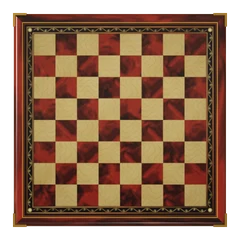
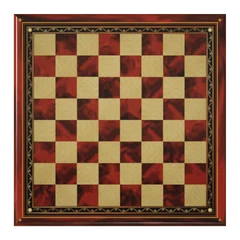
ブール象嵌の盤：四隅の金具を枠の平らな面に載る小さな菱形の金具に（浮いて見えていたため）
Claude-Session: https://claude.ai/code/session_01EiWRAXXs2Dq9W8exsfF5qf

diff --git a/atlas/lazy.js b/atlas/lazy.js
@@ -5,7 +5,7 @@
      AtlasLazy.has3D(id) / hasPlay(id) / hasRules(id) — known before loading; AtlasLazy.loaded(id) */
 (function () {
 'use strict';
-const G = {"reversi": ["games/reversi.js?v=53", "rules/reversi.js?v=14"], "shogi": ["models/shogi.js?v=101", "games/shogi-play.js?v=43", "games/shogi.js?v=16", "rules/shogi.js?v=21"], "chess": ["models/chess.js?v=16", "games/chess.js?v=18", "rules/chess.js?v=7"], "backgammon": ["models/backgammon.js?v=121", "games/backgammon.js?v=23", "rules/backgammon.js?v=11"], "gomoku": ["models/goban.js?v=15", "games/gomoku.js?v=15", "rules/gomoku.js?v=9"], "go": ["models/goban.js?v=15", "games/go.js?v=9", "rules/go.js?v=7"], "hex": ["models/goban.js?v=15", "models/hex.js?v=2", "games/hex.js?v=6", "rules/hex.js?v=6"], "tafl": ["games/tafl.js?v=15", "rules/tafl.js?v=7"], "xiangqi": ["models/xiangqi.js?v=4", "games/xiangqi.js?v=14", "rules/xiangqi.js?v=6"], "janggi": ["models/xiangqi.js?v=4", "models/janggi.js?v=3", "games/janggi.js?v=6", "rules/janggi.js?v=2"], "checkers": ["models/checkers.js?v=20", "games/checkers.js?v=11", "rules/checkers.js?v=6"], "ugolki": ["models/checkers.js?v=20", "models/ugolki.js?v=4", "games/ugolki.js?v=11", "rules/ugolki.js?v=8"], "morris": ["models/morris.js?v=7", "games/morris-pieces.js?v=2", "games/morris.js?v=8", "rules/morris.js?v=6"], "connect4": ["models/connect4.js?v=5", "games/connect4-tiles.js?v=1", "games/connect4.js?v=5", "rules/connect4.js?v=3"], "mancala": ["models/mancala.js?v=5", "games/mancala.js?v=10", "rules/mancala.js?v=4"], "dots": ["models/dots.js?v=4", "games/dots.js?v=9", "rules/dots.js?v=3"], "ur": ["models/ur-dice.js?v=2", "models/ur.js?v=5", "games/ur-kit.js?v=15", "games/ur.js?v=11", "rules/ur.js?v=16"], "fanorona": ["models/fanorona.js?v=4", "games/fanorona.js?v=6", "rules/fanorona.js?v=8"], "konane": ["models/konane.js?v=7", "games/konane.js?v=13", "rules/konane.js?v=5"], "amazons": ["models/amazons.js?v=7", "games/amazons.js?v=11", "rules/amazons.js?v=6"], "senet": ["models/ur-dice.js?v=2", "models/senet.js?v=10", "games/senet-kit.js?v=5", "games/senet.js?v=16", "rules/senet.js?v=8"], "agon": ["models/agon.js?v=4", "games/agon.js?v=12", "rules/agon.js?v=5"], "alquerque": ["models/alquerque.js?v=3", "rules/alquerque.js?v=6"], "ludo": ["../ludo/engine.js?v=3", "../ludo/house.js?v=7", "../ludo/board2d.js?v=7", "../ludo/board-art.js?v=3", "models/ludo.js?v=10", "games/ludo.js?v=28", "rules/ludo.js?v=3"], "carrom": ["../carrom/engine.js?v=7", "models/carrom.js?v=18", "games/carrom.js?v=38", "rules/carrom.js?v=8"], "crokinole": ["../carrom/engine.js?v=7", "games/carrom.js?v=38", "../crokinole/engine.js?v=4", "models/crokinole.js?v=13", "games/crokinole.js?v=15", "rules/crokinole.js?v=4"], "hockey": ["../hockey/engine.js?v=15", "models/hockey.js?v=8", "games/hockey.js?v=30", "rules/hockey.js?v=7"], "shanghai": ["games/shanghai-core.js?v=2", "games/shanghai-zodiac.js?v=6", "games/shanghai-i18n.js?v=12", "models/shanghai.js?v=18", "games/shanghai.js?v=28", "rules/shanghai-i18n.js?v=1", "rules/shanghai.js?v=1"], "peg": ["../peg/engine.js?v=2", "../peg/i18n.js?v=11", "models/peg.js?v=22", "games/peg.js?v=16", "rules/peg.js?v=4"]};
+const G = {"reversi": ["games/reversi.js?v=53", "rules/reversi.js?v=14"], "shogi": ["models/shogi.js?v=101", "games/shogi-play.js?v=43", "games/shogi.js?v=16", "rules/shogi.js?v=21"], "chess": ["models/chess.js?v=16", "games/chess.js?v=18", "rules/chess.js?v=7"], "backgammon": ["models/backgammon.js?v=121", "games/backgammon.js?v=23", "rules/backgammon.js?v=11"], "gomoku": ["models/goban.js?v=15", "games/gomoku.js?v=15", "rules/gomoku.js?v=9"], "go": ["models/goban.js?v=15", "games/go.js?v=9", "rules/go.js?v=7"], "hex": ["models/goban.js?v=15", "models/hex.js?v=2", "games/hex.js?v=6", "rules/hex.js?v=6"], "tafl": ["games/tafl.js?v=15", "rules/tafl.js?v=7"], "xiangqi": ["models/xiangqi.js?v=4", "games/xiangqi.js?v=14", "rules/xiangqi.js?v=6"], "janggi": ["models/xiangqi.js?v=4", "models/janggi.js?v=3", "games/janggi.js?v=6", "rules/janggi.js?v=2"], "checkers": ["models/checkers.js?v=21", "games/checkers.js?v=11", "rules/checkers.js?v=6"], "ugolki": ["models/checkers.js?v=21", "models/ugolki.js?v=4", "games/ugolki.js?v=11", "rules/ugolki.js?v=8"], "morris": ["models/morris.js?v=7", "games/morris-pieces.js?v=2", "games/morris.js?v=8", "rules/morris.js?v=6"], "connect4": ["models/connect4.js?v=5", "games/connect4-tiles.js?v=1", "games/connect4.js?v=5", "rules/connect4.js?v=3"], "mancala": ["models/mancala.js?v=5", "games/mancala.js?v=10", "rules/mancala.js?v=4"], "dots": ["models/dots.js?v=4", "games/dots.js?v=9", "rules/dots.js?v=3"], "ur": ["models/ur-dice.js?v=2", "models/ur.js?v=5", "games/ur-kit.js?v=15", "games/ur.js?v=11", "rules/ur.js?v=16"], "fanorona": ["models/fanorona.js?v=4", "games/fanorona.js?v=6", "rules/fanorona.js?v=8"], "konane": ["models/konane.js?v=7", "games/konane.js?v=13", "rules/konane.js?v=5"], "amazons": ["models/amazons.js?v=7", "games/amazons.js?v=11", "rules/amazons.js?v=6"], "senet": ["models/ur-dice.js?v=2", "models/senet.js?v=10", "games/senet-kit.js?v=5", "games/senet.js?v=16", "rules/senet.js?v=8"], "agon": ["models/agon.js?v=4", "games/agon.js?v=12", "rules/agon.js?v=5"], "alquerque": ["models/alquerque.js?v=3", "rules/alquerque.js?v=6"], "ludo": ["../ludo/engine.js?v=3", "../ludo/house.js?v=7", "../ludo/board2d.js?v=7", "../ludo/board-art.js?v=3", "models/ludo.js?v=10", "games/ludo.js?v=28", "rules/ludo.js?v=3"], "carrom": ["../carrom/engine.js?v=7", "models/carrom.js?v=18", "games/carrom.js?v=38", "rules/carrom.js?v=8"], "crokinole": ["../carrom/engine.js?v=7", "games/carrom.js?v=38", "../crokinole/engine.js?v=4", "models/crokinole.js?v=13", "games/crokinole.js?v=15", "rules/crokinole.js?v=4"], "hockey": ["../hockey/engine.js?v=15", "models/hockey.js?v=8", "games/hockey.js?v=30", "rules/hockey.js?v=7"], "shanghai": ["games/shanghai-core.js?v=2", "games/shanghai-zodiac.js?v=6", "games/shanghai-i18n.js?v=12", "models/shanghai.js?v=18", "games/shanghai.js?v=28", "rules/shanghai-i18n.js?v=1", "rules/shanghai.js?v=1"], "peg": ["../peg/engine.js?v=2", "../peg/i18n.js?v=11", "models/peg.js?v=22", "games/peg.js?v=16", "rules/peg.js?v=4"]};
 const F = {"reversi": {"t3": true, "play": true, "rules": true}, "shogi": {"t3": true, "play": true, "rules": true}, "chess": {"t3": true, "play": true, "rules": true}, "backgammon": {"t3": true, "play": true, "rules": true}, "gomoku": {"t3": true, "play": true, "rules": true}, "go": {"t3": true, "play": true, "rules": true}, "hex": {"t3": true, "play": true, "rules": true}, "tafl": {"t3": true, "play": true, "rules": true}, "xiangqi": {"t3": true, "play": true, "rules": true}, "janggi": {"t3": true, "play": true, "rules": true}, "checkers": {"t3": true, "play": true, "rules": true}, "ugolki": {"t3": true, "play": true, "rules": true}, "morris": {"t3": true, "play": true, "rules": true}, "connect4": {"t3": true, "play": true, "rules": true}, "mancala": {"t3": true, "play": true, "rules": true}, "dots": {"t3": true, "play": true, "rules": true}, "ur": {"t3": true, "play": true, "rules": true}, "fanorona": {"t3": true, "play": true, "rules": true}, "konane": {"t3": true, "play": true, "rules": true}, "amazons": {"t3": true, "play": true, "rules": true}, "senet": {"t3": true, "play": true, "rules": true}, "agon": {"t3": true, "play": true, "rules": true}, "alquerque": {"t3": true, "play": false, "rules": true}, "ludo": {"t3": true, "play": true, "rules": true}, "carrom": {"t3": true, "play": true, "rules": true}, "crokinole": {"t3": true, "play": true, "rules": true}, "hockey": {"t3": true, "play": true, "rules": true}, "peg": {"t3": true, "play": true, "rules": true}, "shanghai": {"t3": true, "play": true, "rules": true}};
 const done = new Set(), loading = new Map(), ok = new Set();
 function load(src) {

diff --git a/dots/index.html b/dots/index.html
@@ -2300,7 +2300,7 @@ document.querySelector('#rsResume').onclick = () => { document.querySelector('#r
   const f = document.createElement('link'); f.rel = 'stylesheet'; f.href = 'https://fonts.googleapis.com/css2?family=RocknRoll+One&family=Zen+Maru+Gothic:wght@500;700;900&family=Fredoka:wght@600;700&family=Kalam:wght@400;700&family=Zen+Kurenaido&family=Nanum+Pen+Script&family=Long+Cang&family=Aref+Ruqaa:wght@700&display=swap'; document.head.appendChild(f);   // (Kalam … Aref Ruqaa: the handwritten box initials and tally on the notebook page)
   const load = src => new Promise((res, rej) => { const s = document.createElement('script'); s.src = src; s.onload = res; s.onerror = rej; document.body.appendChild(s); });
   if (window.AtlasLoading) { AtlasLoading.show(); setTimeout(() => AtlasLoading.hide(), 12000); }   // safety net
-  (/[?&]three=128\b/.test(location.search) ? load('https://cdnjs.cloudflare.com/ajax/libs/three.js/r128/three.min.js') : load('../atlas/vendor/three-r186.min.js?v=1').then(() => load('../atlas/vendor/three-compat.js?v=15'))).then(() => load('../atlas/img/tex/baked.js?v=2')).then(() => load('../atlas/table3d.js?v=168')).then(() => load('../atlas/tables3d.js?v=120')).then(() => load('../atlas/skin/common.js?v=105')).then(() => load('../atlas/models/dots.js?v=3l14')).then(() => load('../atlas/skin/dots.js?v=7l14'))
+  (/[?&]three=128\b/.test(location.search) ? load('https://cdnjs.cloudflare.com/ajax/libs/three.js/r128/three.min.js') : load('../atlas/vendor/three-r186.min.js?v=1').then(() => load('../atlas/vendor/three-compat.js?v=15'))).then(() => load('../atlas/img/tex/baked.js?v=2')).then(() => load('../atlas/table3d.js?v=168')).then(() => load('../atlas/tables3d.js?v=121')).then(() => load('../atlas/skin/common.js?v=105')).then(() => load('../atlas/models/dots.js?v=3l14')).then(() => load('../atlas/skin/dots.js?v=7l14'))
     .catch(() => { document.documentElement.classList.remove('atlas-skin'); if (window.AtlasLoading) AtlasLoading.hide(); });
 })();
 </script>

diff --git a/ur/index.html b/ur/index.html
@@ -1029,7 +1029,7 @@ html:not([lang=ja]):not([lang=zh]):not([lang="zh-TW"]):not([lang=ko]) .result-bi
   const f = document.createElement('link'); f.rel = 'stylesheet'; f.href = 'https://fonts.googleapis.com/css2?family=RocknRoll+One&family=Zen+Maru+Gothic:wght@500;700;900&family=Fredoka:wght@600;700&display=swap'; document.head.appendChild(f);
   const load = src => new Promise((res, rej) => { const s = document.createElement('script'); s.src = src; s.onload = res; s.onerror = rej; document.body.appendChild(s); });
   if (window.AtlasLoading) { AtlasLoading.show(); setTimeout(() => AtlasLoading.hide(), 12000); }   // safety net
-  (/[?&]three=128\b/.test(location.search) ? load('https://cdnjs.cloudflare.com/ajax/libs/three.js/r128/three.min.js') : load('../atlas/vendor/three-r186.min.js?v=1').then(() => load('../atlas/vendor/three-compat.js?v=15'))).then(() => load('../atlas/img/tex/baked.js?v=2')).then(() => load('../atlas/table3d.js?v=168')).then(() => load('../atlas/tables3d.js?v=120')).then(() => load('../atlas/skin/common.js?v=105')).then(() => load('../atlas/models/ur-dice.js?v=2l14')).then(() => load('../atlas/models/ur.js?v=5l14')).then(() => load('../atlas/skin/ur.js?v=14l14'))
+  (/[?&]three=128\b/.test(location.search) ? load('https://cdnjs.cloudflare.com/ajax/libs/three.js/r128/three.min.js') : load('../atlas/vendor/three-r186.min.js?v=1').then(() => load('../atlas/vendor/three-compat.js?v=15'))).then(() => load('../atlas/img/tex/baked.js?v=2')).then(() => load('../atlas/table3d.js?v=168')).then(() => load('../atlas/tables3d.js?v=121')).then(() => load('../atlas/skin/common.js?v=105')).then(() => load('../atlas/models/ur-dice.js?v=2l14')).then(() => load('../atlas/models/ur.js?v=5l14')).then(() => load('../atlas/skin/ur.js?v=14l14'))
     .catch(() => { const u = new URL(location.href); u.searchParams.delete('skin'); location.replace(u.href); });   // (the 3D files are missing: the plain 2D page)
 })();
 </script>

diff --git a/connect4/index.html b/connect4/index.html
@@ -3391,7 +3391,7 @@ document.addEventListener('keydown', e => {
   const f = document.createElement('link'); f.rel = 'stylesheet'; f.href = 'https://fonts.googleapis.com/css2?family=RocknRoll+One&family=Zen+Maru+Gothic:wght@500;700;900&family=Fredoka:wght@600;700&display=swap'; document.head.appendChild(f);
   const load = src => new Promise((res, rej) => { const s = document.createElement('script'); s.src = src; s.onload = res; s.onerror = rej; document.body.appendChild(s); });
   if (window.AtlasLoading) { AtlasLoading.show(); setTimeout(() => AtlasLoading.hide(), 12000); }   // safety net
-  (/[?&]three=128\b/.test(location.search) ? load('https://cdnjs.cloudflare.com/ajax/libs/three.js/r128/three.min.js') : load('../atlas/vendor/three-r186.min.js?v=1').then(() => load('../atlas/vendor/three-compat.js?v=15'))).then(() => load('../atlas/img/tex/baked.js?v=2')).then(() => load('../atlas/table3d.js?v=168')).then(() => load('../atlas/tables3d.js?v=120')).then(() => load('../atlas/skin/common.js?v=105')).then(() => load('../atlas/models/connect4.js?v=5l14')).then(() => load('../atlas/games/connect4-tiles.js?v=1l14')).then(() => load('../atlas/skin/connect4.js?v=6l14-aim'))
+  (/[?&]three=128\b/.test(location.search) ? load('https://cdnjs.cloudflare.com/ajax/libs/three.js/r128/three.min.js') : load('../atlas/vendor/three-r186.min.js?v=1').then(() => load('../atlas/vendor/three-compat.js?v=15'))).then(() => load('../atlas/img/tex/baked.js?v=2')).then(() => load('../atlas/table3d.js?v=168')).then(() => load('../atlas/tables3d.js?v=121')).then(() => load('../atlas/skin/common.js?v=105')).then(() => load('../atlas/models/connect4.js?v=5l14')).then(() => load('../atlas/games/connect4-tiles.js?v=1l14')).then(() => load('../atlas/skin/connect4.js?v=6l14-aim'))
     .catch(() => { document.documentElement.classList.remove('atlas-skin'); if (window.AtlasLoading) AtlasLoading.hide(); });
 })();
 </script>

diff --git a/morris/index.html b/morris/index.html
@@ -3904,7 +3904,7 @@ window.addEventListener('resize', () => renderFx());
   const f = document.createElement('link'); f.rel = 'stylesheet'; f.href = 'https://fonts.googleapis.com/css2?family=RocknRoll+One&family=Zen+Maru+Gothic:wght@500;700;900&family=Fredoka:wght@600;700&display=swap'; document.head.appendChild(f);
   const load = src => new Promise((res, rej) => { const s = document.createElement('script'); s.src = src; s.onload = res; s.onerror = rej; document.body.appendChild(s); });
   if (window.AtlasLoading) { AtlasLoading.show(); setTimeout(() => AtlasLoading.hide(), 12000); }   // safety net
-  (/[?&]three=128\b/.test(location.search) ? load('https://cdnjs.cloudflare.com/ajax/libs/three.js/r128/three.min.js') : load('../atlas/vendor/three-r186.min.js?v=1').then(() => load('../atlas/vendor/three-compat.js?v=15'))).then(() => load('../atlas/img/tex/baked.js?v=2')).then(() => load('../atlas/table3d.js?v=168')).then(() => load('../atlas/tables3d.js?v=120')).then(() => load('../atlas/skin/common.js?v=105')).then(() => load('../atlas/models/morris.js?v=6l14')).then(() => load('../atlas/games/morris-pieces.js?v=2l14')).then(() => load('../atlas/skin/morris.js?v=6l15'))
+  (/[?&]three=128\b/.test(location.search) ? load('https://cdnjs.cloudflare.com/ajax/libs/three.js/r128/three.min.js') : load('../atlas/vendor/three-r186.min.js?v=1').then(() => load('../atlas/vendor/three-compat.js?v=15'))).then(() => load('../atlas/img/tex/baked.js?v=2')).then(() => load('../atlas/table3d.js?v=168')).then(() => load('../atlas/tables3d.js?v=121')).then(() => load('../atlas/skin/common.js?v=105')).then(() => load('../atlas/models/morris.js?v=6l14')).then(() => load('../atlas/games/morris-pieces.js?v=2l14')).then(() => load('../atlas/skin/morris.js?v=6l15'))
     .catch(() => { document.documentElement.classList.remove('atlas-skin'); if (window.AtlasLoading) AtlasLoading.hide(); });
 })();
 </script>

diff --git a/senet/index.html b/senet/index.html
@@ -1030,7 +1030,7 @@ html:not([lang=ja]):not([lang=zh]):not([lang=zh-TW]):not([lang=ko]) .result-big{
   const f = document.createElement('link'); f.rel = 'stylesheet'; f.href = 'https://fonts.googleapis.com/css2?family=RocknRoll+One&family=Zen+Maru+Gothic:wght@500;700;900&family=Fredoka:wght@600;700&display=swap'; document.head.appendChild(f);
   const load = src => new Promise((res, rej) => { const s = document.createElement('script'); s.src = src; s.onload = res; s.onerror = rej; document.body.appendChild(s); });
   if (window.AtlasLoading) { AtlasLoading.show(); setTimeout(() => AtlasLoading.hide(), 12000); }   // safety net
-  (/[?&]three=128\b/.test(location.search) ? load('https://cdnjs.cloudflare.com/ajax/libs/three.js/r128/three.min.js') : load('../atlas/vendor/three-r186.min.js?v=1').then(() => load('../atlas/vendor/three-compat.js?v=15'))).then(() => load('../atlas/img/tex/baked.js?v=2')).then(() => load('../atlas/table3d.js?v=168')).then(() => load('../atlas/tables3d.js?v=120')).then(() => load('../atlas/skin/common.js?v=105')).then(() => load('../atlas/models/senet.js?v=10l14')).then(() => load('../atlas/skin/senet.js?v=10l14'))
+  (/[?&]three=128\b/.test(location.search) ? load('https://cdnjs.cloudflare.com/ajax/libs/three.js/r128/three.min.js') : load('../atlas/vendor/three-r186.min.js?v=1').then(() => load('../atlas/vendor/three-compat.js?v=15'))).then(() => load('../atlas/img/tex/baked.js?v=2')).then(() => load('../atlas/table3d.js?v=168')).then(() => load('../atlas/tables3d.js?v=121')).then(() => load('../atlas/skin/common.js?v=105')).then(() => load('../atlas/models/senet.js?v=10l14')).then(() => load('../atlas/skin/senet.js?v=10l14'))
     .catch(() => { const u = new URL(location.href); u.searchParams.delete('skin'); location.replace(u.href); });   // (the 3D files are missing: the plain 2D page)
 })();
 </script>

diff --git a/fanorona/index.html b/fanorona/index.html
@@ -1687,7 +1687,7 @@ body.lt-on .reserve .onb.on{border-color:var(--accent);box-shadow:0 0 0 1px var(
   const f = document.createElement('link'); f.rel = 'stylesheet'; f.href = 'https://fonts.googleapis.com/css2?family=RocknRoll+One&family=Zen+Maru+Gothic:wght@500;700;900&family=Fredoka:wght@600;700&display=swap'; document.head.appendChild(f);
   const load = src => new Promise((res, rej) => { const s = document.createElement('script'); s.src = src; s.onload = res; s.onerror = rej; document.body.appendChild(s); });
   if (window.AtlasLoading) { AtlasLoading.show(); setTimeout(() => AtlasLoading.hide(), 12000); }   // safety net
-  (/[?&]three=128\b/.test(location.search) ? load('https://cdnjs.cloudflare.com/ajax/libs/three.js/r128/three.min.js') : load('../atlas/vendor/three-r186.min.js?v=1').then(() => load('../atlas/vendor/three-compat.js?v=15'))).then(() => load('../atlas/img/tex/baked.js?v=2')).then(() => load('../atlas/table3d.js?v=168')).then(() => load('../atlas/tables3d.js?v=120')).then(() => load('../atlas/skin/common.js?v=105')).then(() => load('../atlas/models/fanorona.js?v=3l14')).then(() => load('../atlas/skin/fanorona.js?v=6l14'))
+  (/[?&]three=128\b/.test(location.search) ? load('https://cdnjs.cloudflare.com/ajax/libs/three.js/r128/three.min.js') : load('../atlas/vendor/three-r186.min.js?v=1').then(() => load('../atlas/vendor/three-compat.js?v=15'))).then(() => load('../atlas/img/tex/baked.js?v=2')).then(() => load('../atlas/table3d.js?v=168')).then(() => load('../atlas/tables3d.js?v=121')).then(() => load('../atlas/skin/common.js?v=105')).then(() => load('../atlas/models/fanorona.js?v=3l14')).then(() => load('../atlas/skin/fanorona.js?v=6l14'))
     .catch(() => { document.documentElement.classList.remove('atlas-skin'); if (window.AtlasLoading) AtlasLoading.hide(); });
 })();
 </script>

diff --git a/mancala/index.html b/mancala/index.html
@@ -1586,7 +1586,7 @@ html[data-sk=ocean] .seed{box-shadow:0 calc(var(--u) * .025) calc(var(--u) * .04
   const f = document.createElement('link'); f.rel = 'stylesheet'; f.href = 'https://fonts.googleapis.com/css2?family=RocknRoll+One&family=Zen+Maru+Gothic:wght@500;700;900&family=Fredoka:wght@600;700&display=swap'; document.head.appendChild(f);
   const load = src => new Promise((res, rej) => { const s = document.createElement('script'); s.src = src; s.onload = res; s.onerror = rej; document.body.appendChild(s); });
   if (window.AtlasLoading) { AtlasLoading.show(); setTimeout(() => AtlasLoading.hide(), 12000); }   // safety net
-  (/[?&]three=128\b/.test(location.search) ? load('https://cdnjs.cloudflare.com/ajax/libs/three.js/r128/three.min.js') : load('../atlas/vendor/three-r186.min.js?v=1').then(() => load('../atlas/vendor/three-compat.js?v=15'))).then(() => load('../atlas/img/tex/baked.js?v=2')).then(() => load('../atlas/table3d.js?v=168')).then(() => load('../atlas/tables3d.js?v=120')).then(() => load('../atlas/skin/common.js?v=105')).then(() => load('../atlas/models/mancala.js?v=4l14')).then(() => load('../atlas/skin/mancala.js?v=10l14'))
+  (/[?&]three=128\b/.test(location.search) ? load('https://cdnjs.cloudflare.com/ajax/libs/three.js/r128/three.min.js') : load('../atlas/vendor/three-r186.min.js?v=1').then(() => load('../atlas/vendor/three-compat.js?v=15'))).then(() => load('../atlas/img/tex/baked.js?v=2')).then(() => load('../atlas/table3d.js?v=168')).then(() => load('../atlas/tables3d.js?v=121')).then(() => load('../atlas/skin/common.js?v=105')).then(() => load('../atlas/models/mancala.js?v=4l14')).then(() => load('../atlas/skin/mancala.js?v=10l14'))
     .catch(() => { document.documentElement.classList.remove('atlas-skin'); if (window.AtlasLoading) AtlasLoading.hide(); });
 })();
 </script>

diff --git a/gomoku/index.html b/gomoku/index.html
@@ -1482,7 +1482,7 @@ body.skin-ink .st.b{background:radial-gradient(circle at 34% 28%,#8a8f98 0%,#3c4
   const f = document.createElement('link'); f.rel = 'stylesheet'; f.href = 'https://fonts.googleapis.com/css2?family=RocknRoll+One&family=Zen+Maru+Gothic:wght@500;700;900&family=Fredoka:wght@600;700&display=swap'; document.head.appendChild(f);
   const load = src => new Promise((res, rej) => { const s = document.createElement('script'); s.src = src; s.onload = res; s.onerror = rej; document.body.appendChild(s); });
   if (window.AtlasLoading) { AtlasLoading.show(); setTimeout(() => AtlasLoading.hide(), 12000); }   // safety net
-  (/[?&]three=128\b/.test(location.search) ? load('https://cdnjs.cloudflare.com/ajax/libs/three.js/r128/three.min.js') : load('../atlas/vendor/three-r186.min.js?v=1').then(() => load('../atlas/vendor/three-compat.js?v=15'))).then(() => load('../atlas/img/tex/baked.js?v=2')).then(() => load('../atlas/table3d.js?v=168')).then(() => load('../atlas/tables3d.js?v=120')).then(() => load('../atlas/skin/common.js?v=105')).then(() => load('../atlas/models/goban.js?v=15l14')).then(() => load('../atlas/skin/gomoku.js?v=5l14'))
+  (/[?&]three=128\b/.test(location.search) ? load('https://cdnjs.cloudflare.com/ajax/libs/three.js/r128/three.min.js') : load('../atlas/vendor/three-r186.min.js?v=1').then(() => load('../atlas/vendor/three-compat.js?v=15'))).then(() => load('../atlas/img/tex/baked.js?v=2')).then(() => load('../atlas/table3d.js?v=168')).then(() => load('../atlas/tables3d.js?v=121')).then(() => load('../atlas/skin/common.js?v=105')).then(() => load('../atlas/models/goban.js?v=15l14')).then(() => load('../atlas/skin/gomoku.js?v=5l14'))
     .catch(() => { document.documentElement.classList.remove('atlas-skin'); if (window.AtlasLoading) AtlasLoading.hide(); });
 })();
 </script>

diff --git a/ugolki/index.html b/ugolki/index.html
@@ -1394,7 +1394,7 @@ html:is([data-bd=gzhel],[data-bd=birch]) .reserve .rsv-plate .rsv-w:not(.hot) b{
   const f = document.createElement('link'); f.rel = 'stylesheet'; f.href = 'https://fonts.googleapis.com/css2?family=RocknRoll+One&family=Zen+Maru+Gothic:wght@500;700;900&family=Fredoka:wght@600;700&display=swap'; document.head.appendChild(f);
   const load = src => new Promise((res, rej) => { const s = document.createElement('script'); s.src = src; s.onload = res; s.onerror = rej; document.body.appendChild(s); });
   if (window.AtlasLoading) { AtlasLoading.show(); setTimeout(() => AtlasLoading.hide(), 12000); }   // safety net
-  (/[?&]three=128\b/.test(location.search) ? load('https://cdnjs.cloudflare.com/ajax/libs/three.js/r128/three.min.js') : load('../atlas/vendor/three-r186.min.js?v=1').then(() => load('../atlas/vendor/three-compat.js?v=15'))).then(() => load('../atlas/img/tex/baked.js?v=2')).then(() => load('../atlas/table3d.js?v=168')).then(() => load('../atlas/tables3d.js?v=120')).then(() => load('../atlas/skin/common.js?v=105')).then(() => load('../atlas/models/ugolki.js?v=4l14')).then(() => load('../atlas/skin/ugolki.js?v=2l14'))
+  (/[?&]three=128\b/.test(location.search) ? load('https://cdnjs.cloudflare.com/ajax/libs/three.js/r128/three.min.js') : load('../atlas/vendor/three-r186.min.js?v=1').then(() => load('../atlas/vendor/three-compat.js?v=15'))).then(() => load('../atlas/img/tex/baked.js?v=2')).then(() => load('../atlas/table3d.js?v=168')).then(() => load('../atlas/tables3d.js?v=121')).then(() => load('../atlas/skin/common.js?v=105')).then(() => load('../atlas/models/ugolki.js?v=4l14')).then(() => load('../atlas/skin/ugolki.js?v=2l14'))
     .catch(() => { document.documentElement.classList.remove('atlas-skin'); if (window.AtlasLoading) AtlasLoading.hide(); });
 })();
 </script>

diff --git a/alquerque/index.html b/alquerque/index.html
@@ -1689,7 +1689,7 @@ window.OL_VARIANTS = ['alq', 'alqf']; window.OL_DB_PREFIX = 'alq/';
   const f = document.createElement('link'); f.rel = 'stylesheet'; f.href = 'https://fonts.googleapis.com/css2?family=RocknRoll+One&family=Zen+Maru+Gothic:wght@500;700;900&family=Fredoka:wght@600;700&display=swap'; document.head.appendChild(f);
   const load = src => new Promise((res, rej) => { const s = document.createElement('script'); s.src = src; s.onload = res; s.onerror = rej; document.body.appendChild(s); });
   if (window.AtlasLoading) { AtlasLoading.show(); setTimeout(() => AtlasLoading.hide(), 12000); }   // safety net
-  (/[?&]three=128\b/.test(location.search) ? load('https://cdnjs.cloudflare.com/ajax/libs/three.js/r128/three.min.js') : load('../atlas/vendor/three-r186.min.js?v=1').then(() => load('../atlas/vendor/three-compat.js?v=15'))).then(() => load('../atlas/img/tex/baked.js?v=2')).then(() => load('../atlas/table3d.js?v=168')).then(() => load('../atlas/tables3d.js?v=120')).then(() => load('../atlas/skin/common.js?v=105')).then(() => load('../atlas/models/alquerque.js?v=3l14')).then(() => load('../atlas/skin/fanorona.js?v=6l14'))
+  (/[?&]three=128\b/.test(location.search) ? load('https://cdnjs.cloudflare.com/ajax/libs/three.js/r128/three.min.js') : load('../atlas/vendor/three-r186.min.js?v=1').then(() => load('../atlas/vendor/three-compat.js?v=15'))).then(() => load('../atlas/img/tex/baked.js?v=2')).then(() => load('../atlas/table3d.js?v=168')).then(() => load('../atlas/tables3d.js?v=121')).then(() => load('../atlas/skin/common.js?v=105')).then(() => load('../atlas/models/alquerque.js?v=3l14')).then(() => load('../atlas/skin/fanorona.js?v=6l14'))
     .catch(() => { document.documentElement.classList.remove('atlas-skin'); if (window.AtlasLoading) AtlasLoading.hide(); });
 })();
 </script>

diff --git a/chess/index.html b/chess/index.html
@@ -1626,7 +1626,7 @@ body.in-online .coach,body.in-online #btnMistakes{display:none!important}
   const f = document.createElement('link'); f.rel = 'stylesheet'; f.href = 'https://fonts.googleapis.com/css2?family=RocknRoll+One&family=Zen+Maru+Gothic:wght@500;700;900&family=Fredoka:wght@600;700&display=swap'; document.head.appendChild(f);
   const load = src => new Promise((res, rej) => { const s = document.createElement('script'); s.src = src; s.onload = res; s.onerror = rej; document.body.appendChild(s); });
   if (window.AtlasLoading) { AtlasLoading.show(); setTimeout(() => AtlasLoading.hide(), 12000); }   // safety net
-  (/[?&]three=128\b/.test(location.search) ? load('https://cdnjs.cloudflare.com/ajax/libs/three.js/r128/three.min.js') : load('../atlas/vendor/three-r186.min.js?v=1').then(() => load('../atlas/vendor/three-compat.js?v=15'))).then(() => load('../atlas/img/tex/baked.js?v=2')).then(() => load('../atlas/table3d.js?v=168')).then(() => load('../atlas/tables3d.js?v=120')).then(() => load('../atlas/skin/common.js?v=105')).then(() => load('../atlas/models/chess.js?v=16l14')).then(() => load('../atlas/skin/chess.js?v=11l14'))
+  (/[?&]three=128\b/.test(location.search) ? load('https://cdnjs.cloudflare.com/ajax/libs/three.js/r128/three.min.js') : load('../atlas/vendor/three-r186.min.js?v=1').then(() => load('../atlas/vendor/three-compat.js?v=15'))).then(() => load('../atlas/img/tex/baked.js?v=2')).then(() => load('../atlas/table3d.js?v=168')).then(() => load('../atlas/tables3d.js?v=121')).then(() => load('../atlas/skin/common.js?v=105')).then(() => load('../atlas/models/chess.js?v=16l14')).then(() => load('../atlas/skin/chess.js?v=11l14'))
     .catch(() => { document.documentElement.classList.remove('atlas-skin'); if (window.AtlasLoading) AtlasLoading.hide(); });
 })();
 </script>
